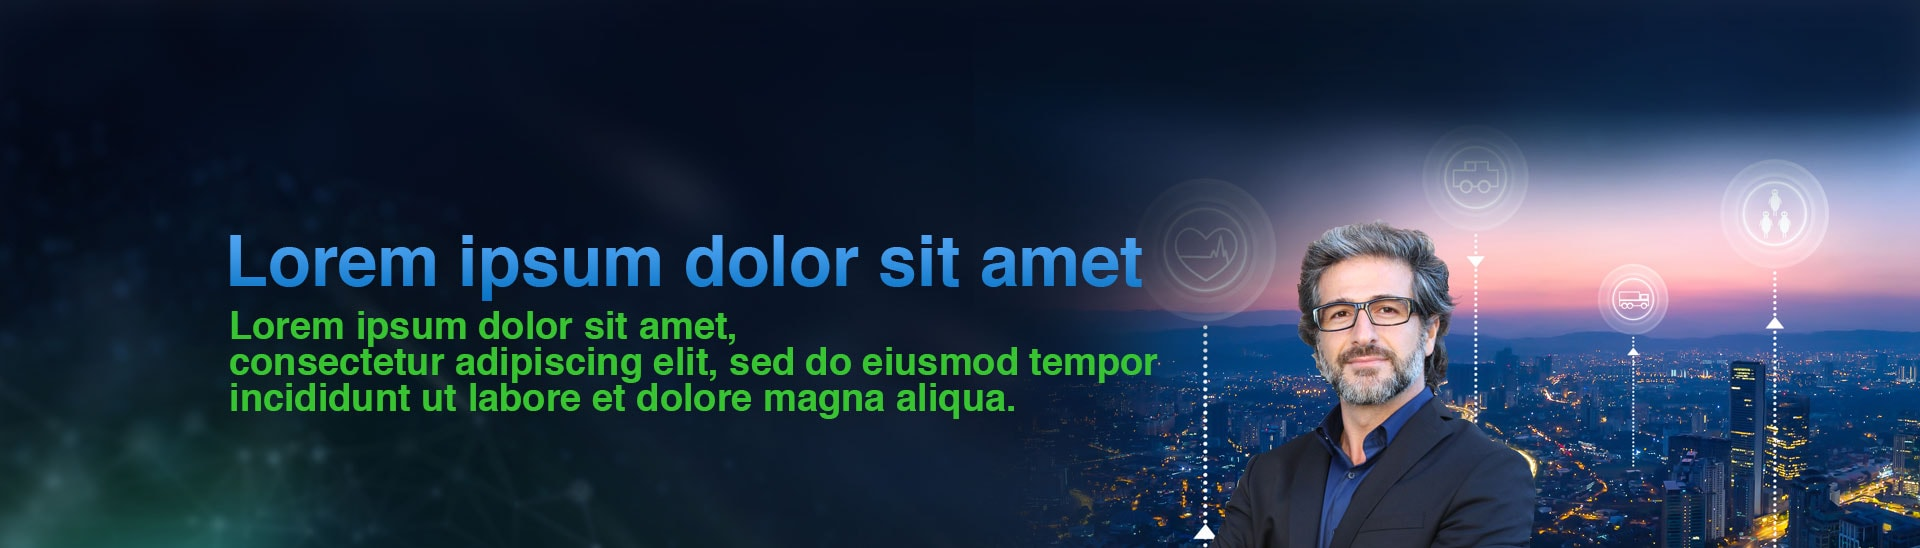
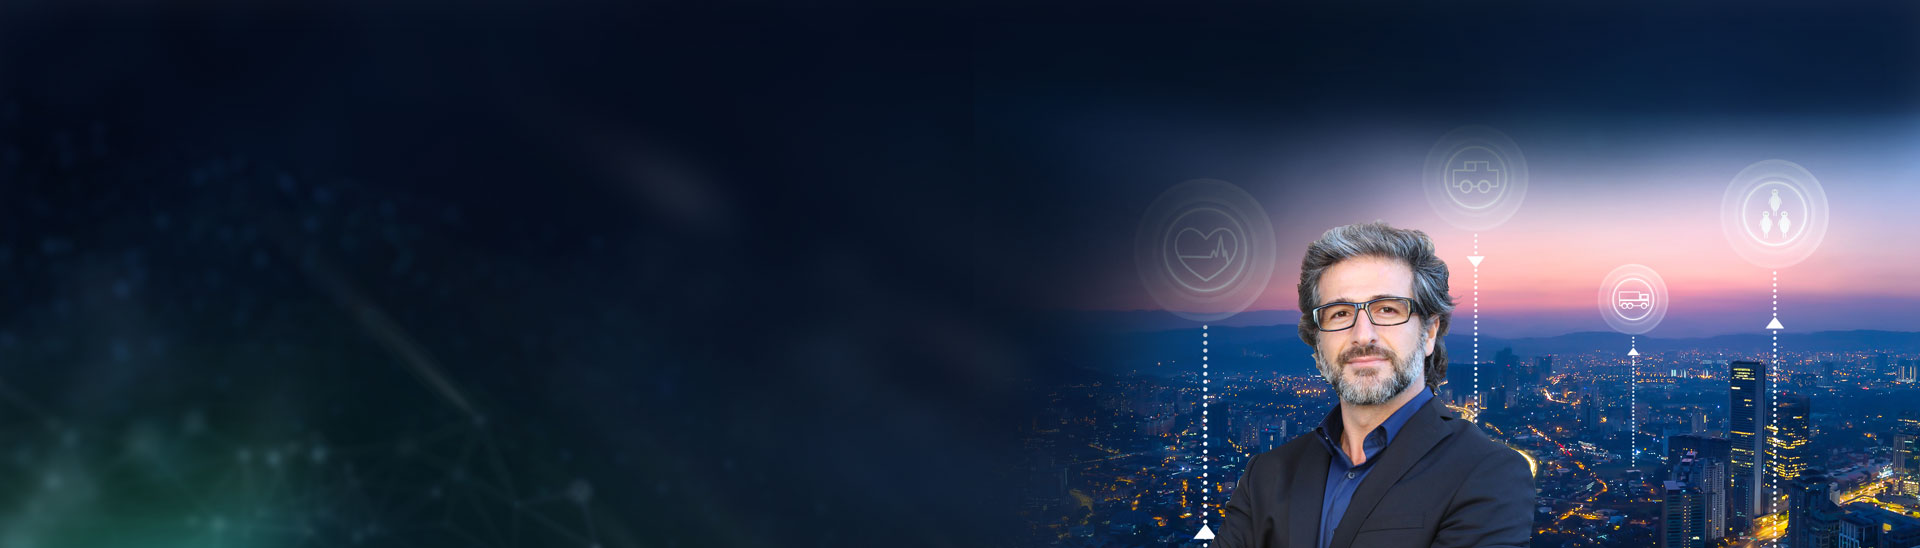
koushik first pull on 20200225

diff --git a/src/styles.css b/src/styles.css
@@ -123,6 +123,7 @@ img{vertical-align:middle;height:auto;width:100%}
 .mat-card{font-family: var(--main-font) !important;}
 
 .mainwrapper{width:var(--wrapper-1460); margin: 0 auto;}
+
 @media (max-width: 1200px) {
     .mainwrapper{width:96%; margin: 0 auto;}
 }
@@ -256,17 +257,97 @@ img{vertical-align:middle;height:auto;width:100%}
 
 /******** home page css ********/
 .homemain .mat-list-item .mat-list-item-content{padding: 0 !important;}
+
 .homeblock1bg.mat-card{background:url('https://all-frontend-assets.s3.amazonaws.com/helios/images/homeblock1bg.jpg') no-repeat top right;background-size: cover;padding: 0;border-radius: var(--border-radius-0);min-height: 936px;}
 
-.gefencebannerbg.mat-card{background:url('https://all-frontend-assets.s3.amazonaws.com/helios/images/gefencebannerbg.png') no-repeat top right;background-size: 100%;
-padding: 0;border-radius: var(--border-radius-0);height: 635px;box-shadow: none;min-height: inherit;}
 
-.howitworksbannerbg.mat-card{background:url('https://all-frontend-assets.s3.amazonaws.com/helios/images/howitworksbannerbg.jpg') no-repeat top right;background-size: 100%;
-padding: 0;border-radius: var(--border-radius-0);height: 540px;box-shadow: none;min-height: inherit;}
-
-.medicallistsbannerbg.mat-card{background:url('https://all-frontend-assets.s3.amazonaws.com/helios/images/medicallistsbannerbg.jpg') no-repeat top right;background-size: 100%;
-padding: 0;border-radius: var(--border-radius-0);height: 540px;box-shadow: none;min-height: inherit;}
+/* .innerbanner{
     
+} */
+.medicallistsbg{
+    background: url(https://all-frontend-assets.s3.amazonaws.com/helios/images/medicallistsbannerbg.jpg) no-repeat top center;min-height: 548px; padding: 0; padding-top: 172px !important; position: relative !important; background-repeat: no-repeat; background-size: cover;
+}
+.gefencebannerbg{
+    background: url(https://all-frontend-assets.s3.amazonaws.com/helios/images/gefencebannerbg.jpg) no-repeat top center;min-height: 548px; padding: 0; padding-top: 252px !important; position: relative !important; background-repeat: no-repeat; background-size: cover;
+}
+.howitworksbannerbg{
+    background: url(https://all-frontend-assets.s3.amazonaws.com/helios/images/howitworksbannerbg.jpg) no-repeat top center;min-height: 548px; padding: 0; padding-top: 252px !important; position: relative !important; background-repeat: no-repeat; background-size: cover;
+}
+
+
+.bannertextwrapper {width: 74%;}
+.bannertextwrapper h2 {
+        line-height: normal;
+    padding-top: 0;
+    padding-bottom: 0;
+    --max-font: 46;
+    --min-font: 23;
+    font-family: var(--main-bold-font);
+    font-size: var(--responsive);
+    margin: 10px 0;    
+    line-height: normal;
+}
+.bannertextwrapper h2 span{
+    display: block;
+    --max-font: 36;
+    --min-font: 18;
+    font-family: var(--main-bold-font);
+    font-size: var(--responsive);
+}
+.bannertextwrapper p {
+    margin: 0;
+    line-height: 38px;
+    color: var(--main-txt-color);
+    --max-font: 24;
+    --min-font: 13;
+    font-family: var(--main-font);
+    font-size: var(--responsive);
+}    
+
+@media (max-width: 1199px){
+   
+    .medicallistsbg {
+        background-image: url(assets/images/medicallistsbannerbg.jpg);
+        min-height: inherit;
+        height: auto;
+        padding-top: 55% !important;
+        background-size: 190%;
+        background-position: top right;
+        background-repeat: no-repeat;
+        background-color: #17283e;
+        padding-bottom: 10px !important;
+   }
+   .bannertextwrapper {
+        width: 100%;
+        text-align: center;
+    }
+   
+    .gefencebannerbg {
+        background-image: url(assets/images/gefencebannerbg.jpg);
+        min-height: inherit;
+        height: auto;
+        padding-top: 55% !important;
+        background-size: 190%;
+        background-position: top right;
+        background-repeat: no-repeat;
+        background-color: #0a1c24;
+        padding-bottom: 10px !important;
+   }
+
+   .howitworksbannerbg {
+    background-image: url(assets/images/howitworksbannerbg.jpg);
+    min-height: inherit;
+    height: auto;
+    padding-top: 55% !important;
+    background-size: 190%;
+    background-position: top right;
+    background-repeat: no-repeat;
+    background-color: #0a1c24;
+    padding-bottom: 10px !important;
+}
+
+
+}
    
 
 .formcls .mat-card-header {
@@ -429,6 +510,13 @@ padding: 0;border-radius: var(--border-radius-0);height: 540px;box-shadow: none;
 .generalmodalcls .mat-form-field-flex{display:block!important;border:none!important;padding:0!important}
 
 
+
+
+
+
+
+
+
 @media (max-width: 1280px){
     .formcls .mat-form-field-appearance-legacy .mat-form-field-label {
         top: 8px;
@@ -496,120 +584,10 @@ padding: 0;border-radius: var(--border-radius-0);height: 540px;box-shadow: none;
 }
 
 
-@media (max-width: 1900px){
-    .gefencebannerbg.mat-card {
-           height: 608px;
-    }
-    .howitworksbannerbg.mat-card {
-        height: 530px;
-    }
-    .gefencebannerbg.mat-card {
-        height: 635px;
-    }
-    .geofencefeaturesblock1 {
-        margin-top: -6%;
-    }
-}
 
-@media (max-width: 1860px){
-    .medicallistsbannerbg.mat-card {
-        background: url(https://all-frontend-assets.s3.amazonaws.com/helios/images/medicallistsbannerbg.jpg) no-repeat top center;
-        background-size: 106%;
-    }
-    
-    .gefencebannerbg.mat-card{background:url('https://all-frontend-assets.s3.amazonaws.com/helios/images/gefencebannerbg.png') no-repeat top right;background-size: 100%;
-    padding: 0;border-radius: var(--border-radius-0);height: 648px;box-shadow: none;min-height: inherit;}
-    
-    .howitworksbannerbg.mat-card{background:url('https://all-frontend-assets.s3.amazonaws.com/helios/images/howitworksbannerbg.jpg') no-repeat top right;background-size: 100%;
-    padding: 0;border-radius: var(--border-radius-0);height: 548px;box-shadow: none;min-height: inherit;}
-    .gefencebannerbg.mat-card {
-        height: 608px;
-    }
-    .howitworksbannerbg.mat-card {
-        height: 525px;
-    }
-}
 
-@media (max-width: 1800px){
-    .medicallistsbannerbg.mat-card {
-        background: url(https://all-frontend-assets.s3.amazonaws.com/helios/images/medicallistsbannerbg.jpg) no-repeat top center;
-        background-size: 115%;
-    }
-    
-    .gefencebannerbg.mat-card {
-        background: url(https://all-frontend-assets.s3.amazonaws.com/helios/images/gefencebannerbg.png) no-repeat top center;
-        background-size: 105%;
-    }
-    
-    .gefencebannerbg.mat-card {
-        height: 590px;
-    }
-    
-    .howitworksbannerbg.mat-card{background:url('https://all-frontend-assets.s3.amazonaws.com/helios/images/howitworksbannerbg.jpg') no-repeat top center;
-        background-size: 115%;
-    }
-}
 
-@media (max-width: 1700px){
-    .gefencebannerbg.mat-card {
-        background: url(https://all-frontend-assets.s3.amazonaws.com/helios/images/gefencebannerbg.png) no-repeat top center;
-        background-size: 109%;
-    }
-    .medicallistsbannerbg.mat-card {
-        background: url(https://all-frontend-assets.s3.amazonaws.com/helios/images/medicallistsbannerbg.jpg) no-repeat top center;
-        background-size: 128%;
-    }
-    
-    
-    .howitworksbannerbg.mat-card{background:url('https://all-frontend-assets.s3.amazonaws.com/helios/images/howitworksbannerbg.jpg') no-repeat top center;
-        background-size: 118%;
-    }   
-}
-@media (max-width: 1660px){
-.gefencebannerbg.mat-card {
-    background: url(https://all-frontend-assets.s3.amazonaws.com/helios/images/gefencebannerbg.png) no-repeat top center;
-    background-size: 115%;
-}
-}
-@media (max-width: 1600px){
-    .medicallistsbannerbg.mat-card {
-        background: url(https://all-frontend-assets.s3.amazonaws.com/helios/images/medicallistsbannerbg.jpg) no-repeat top center;
-        background-size: 120%;
-    }
-    
-    .gefencebannerbg.mat-card{background:url('https://all-frontend-assets.s3.amazonaws.com/helios/images/gefencebannerbg.png') no-repeat top center;
-        background-size: 117%;
-    }
- 
-    .howitworksbannerbg.mat-card{background:url('https://all-frontend-assets.s3.amazonaws.com/helios/images/howitworksbannerbg.jpg') no-repeat top center;
-        background-size: 123%;
-    }
-}
 
-@media (max-width: 1500px){
-    .gefencebannerbg.mat-card {
-        height: 564px;
-    }
-    .medicallistsbannerbg.mat-card {
-        height: 500px;
-    }
-    .geofencefeaturesblock1 {
-        margin-top: -4%;
-    }
-    
-    /* .gefencebannerbg.mat-card {
-        height: 520px;
-    } */
-    
-.howitworksbannerbg.mat-card{
-    height: 428px;
-}
 
-}
 
-@media (max-width: 1366px){
-    .gefencebannerbg.mat-card {
-        height: 538px;
-    }
 
-}

diff --git a/src/app/component/medical-lists/medical-lists.component.html b/src/app/component/medical-lists/medical-lists.component.html
@@ -1,6 +1,14 @@
 <app-header></app-header>
 
-    <mat-card class="homeblock1bg medicallistsbannerbg">
+    <!-- <mat-card class="homeblock1bg medicallistsbannerbg">
+    </mat-card> -->
+    <mat-card class="innerbanner medicallistsbg">
+        <mat-card-content class="mainwrapper">
+            <div class="bannertextwrapper">
+                <h2 class="text-gradient">Our medically surveyed <span>patient data is one of the largest and comprehensive in the industry.</span></h2>
+                <p>We have access to email, phone number, physical address, and a 78% match to their primary care physician.</p>
+            </div>            
+        </mat-card-content>
     </mat-card>
 
     <img src="https://all-frontend-assets.s3.amazonaws.com/helios/images/medicallistsblock1.jpg" class="medicallistsblock1">

diff --git a/src/app/component/geofence-features/geofence-features.component.html b/src/app/component/geofence-features/geofence-features.component.html
@@ -1,6 +1,15 @@
 <app-header></app-header>
-    <mat-card class="homeblock1bg gefencebannerbg">
+    <!-- <mat-card class="homeblock1bg gefencebannerbg">
+    </mat-card> -->
+    <mat-card class="innerbanner gefencebannerbg">
+        <mat-card-content class="mainwrapper">
+            <div class="bannertextwrapper">
+                <h2 class="text-gradient">Lorem ipsum dolor sit amet</h2>
+                <p>Lorem ipsum dolor sit amet, consectetur adipiscing elit, sed do eiusmod tempor incididunt ut labore et dolore magna aliqua.</p>
+            </div>            
+        </mat-card-content>
     </mat-card>
+
     <img src="https://all-frontend-assets.s3.amazonaws.com/helios/images/geofencefeaturesblock1.jpg" class="geofencefeaturesblock1">
    
 <app-footer></app-footer>

diff --git a/src/app/component/how-it-works/how-it-works.component.html b/src/app/component/how-it-works/how-it-works.component.html
@@ -1,6 +1,15 @@
 <app-header></app-header>
 
-    <mat-card class="homeblock1bg howitworksbannerbg">
+    <!-- <mat-card class="homeblock1bg howitworksbannerbg">
+    </mat-card> -->
+
+    <mat-card class="innerbanner howitworksbannerbg">
+        <mat-card-content class="mainwrapper">
+            <div class="bannertextwrapper">
+                <h2 class="text-gradient">Lorem ipsum dolor sit amet</h2>
+                <p>Lorem ipsum dolor sit amet, consectetur adipiscing elit, sed do eiusmod tempor incididunt ut labore et dolore magna aliqua.</p>
+            </div>            
+        </mat-card-content>
     </mat-card>
 
     <img src="https://all-frontend-assets.s3.amazonaws.com/helios/images/howitworksblock1.jpg" class="howitworksblock1">

diff --git a/src/app/layout/header/header.component.css b/src/app/layout/header/header.component.css
@@ -45,6 +45,7 @@
 @media screen and (max-width:1199px) {
 .vpheaderwrapper .mat-nav-list .mat-list-item a,.vpheaderwrapper .mat-nav-list .mat-list-item:hover a{font-size:18px;padding:0 18px}
 .pagelogowrapper{margin-left:10%}
+.vpheaderwrapper {position: inherit !important;}
 }
 @media screen and (max-width:991px) {
 .homemain .mat-list-item{height:auto}

diff --git a/src/app/component/geofence-features/geofence-features.component.css b/src/app/component/geofence-features/geofence-features.component.css
@@ -1,2 +1,2 @@
 .gefencebannerbginner{position: relative;}
-.geofencefeaturesblock1{margin-top: -5%;}
+/* .geofencefeaturesblock1{margin-top: -5%;} */
